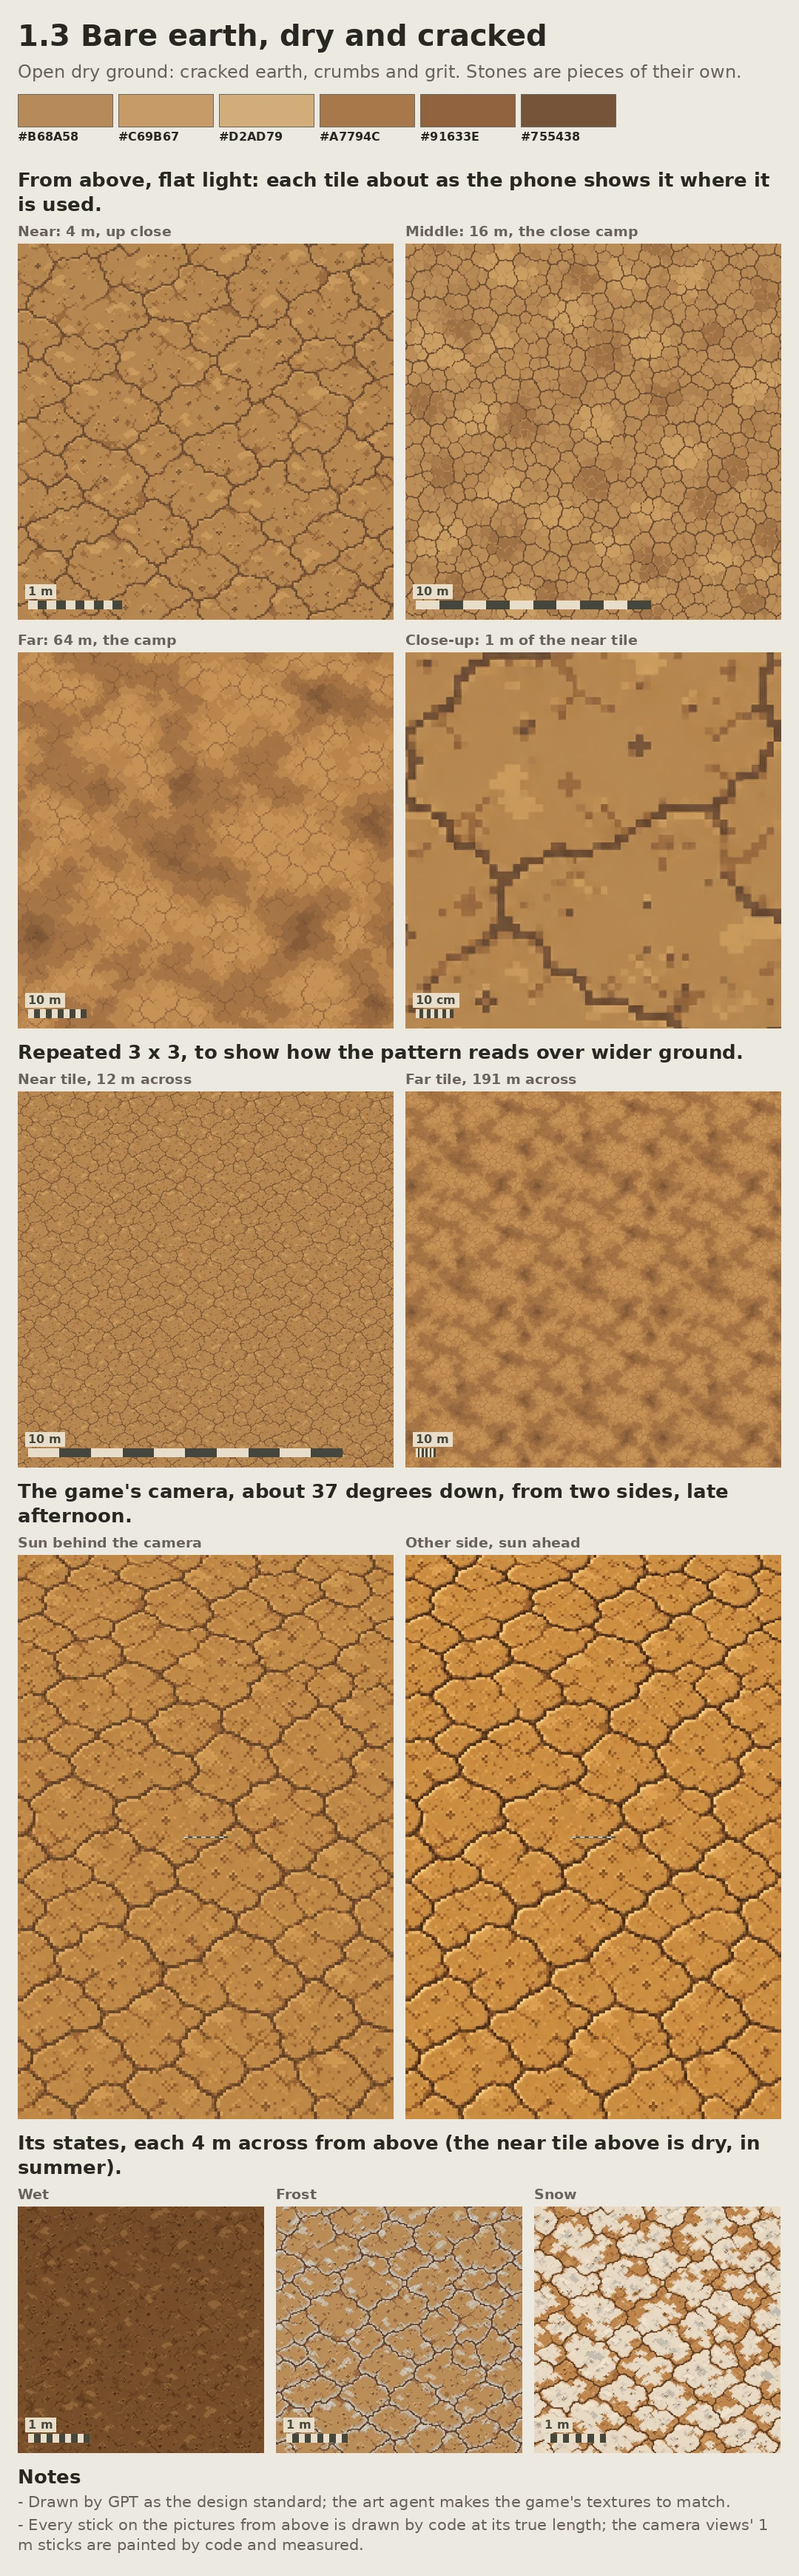
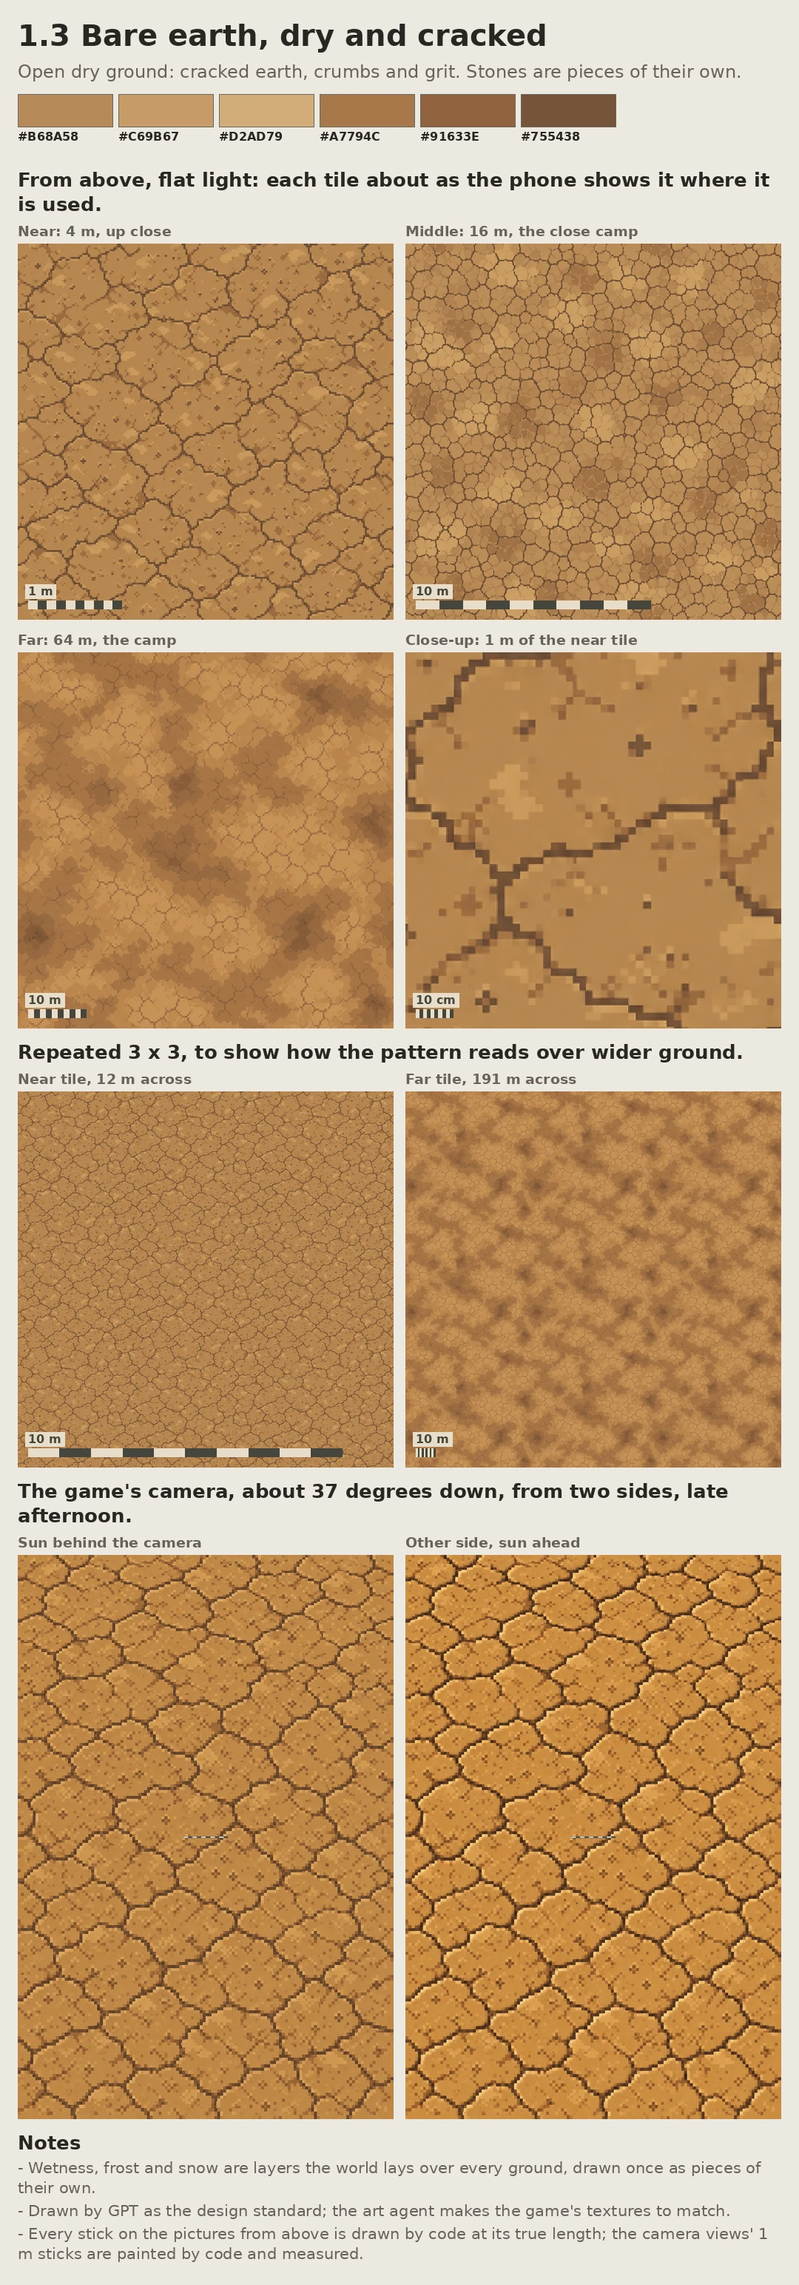
The catalogue: paths and camp floors become one wear layer over any ground, and grounds no longer draw their own wet, frost and snow (PRE-46, PRE-23)
As you set on 7 October 2026: what the world lays over a ground is a piece of
its own, drawn once, so a path can appear, grow and fade with use, and the water
is drawn over the river bed. Group 1's trodden floor and path are now piece 1.2,
the wear layer; the wet mud moves from 1.8 to 1.7. The two signed-off sheets
are rebuilt without their wet, frost and snow panels; their art is unchanged.

Claude-Session: https://claude.ai/code/session_01AmrcU2rWthimuooxx9aatP

diff --git a/IMPLEMENTATION.md b/IMPLEMENTATION.md
@@ -80,6 +80,7 @@ Every piece of art the game needs, worked out before any of it is made, as you a
   - each surface enlarged so its texture pixels show;
   - flat even light on the front, side, back and top views, and the game's late-afternoon light on the camera views.
   - Ground, water, sky, effects and the interface take only what applies to them; a piece's views come once, its states and actions as rows; a piece the art book already shows starts from that picture.
+  - What the world lays over a ground is a piece of its own, drawn once: the wear of paths and camp floors, wetness, frost and snow, and the water over a river bed; a ground's sheet shows only its own states, as you set on 7 October 2026.
 - **You sign off each piece** as its sheet is finished, as you asked on 7 October 2026; only signed-off pieces go to the art lane, in batches.
 - It is kept in `art/catalogue/`: a file of each group's pieces, and each piece's sheet.
 
